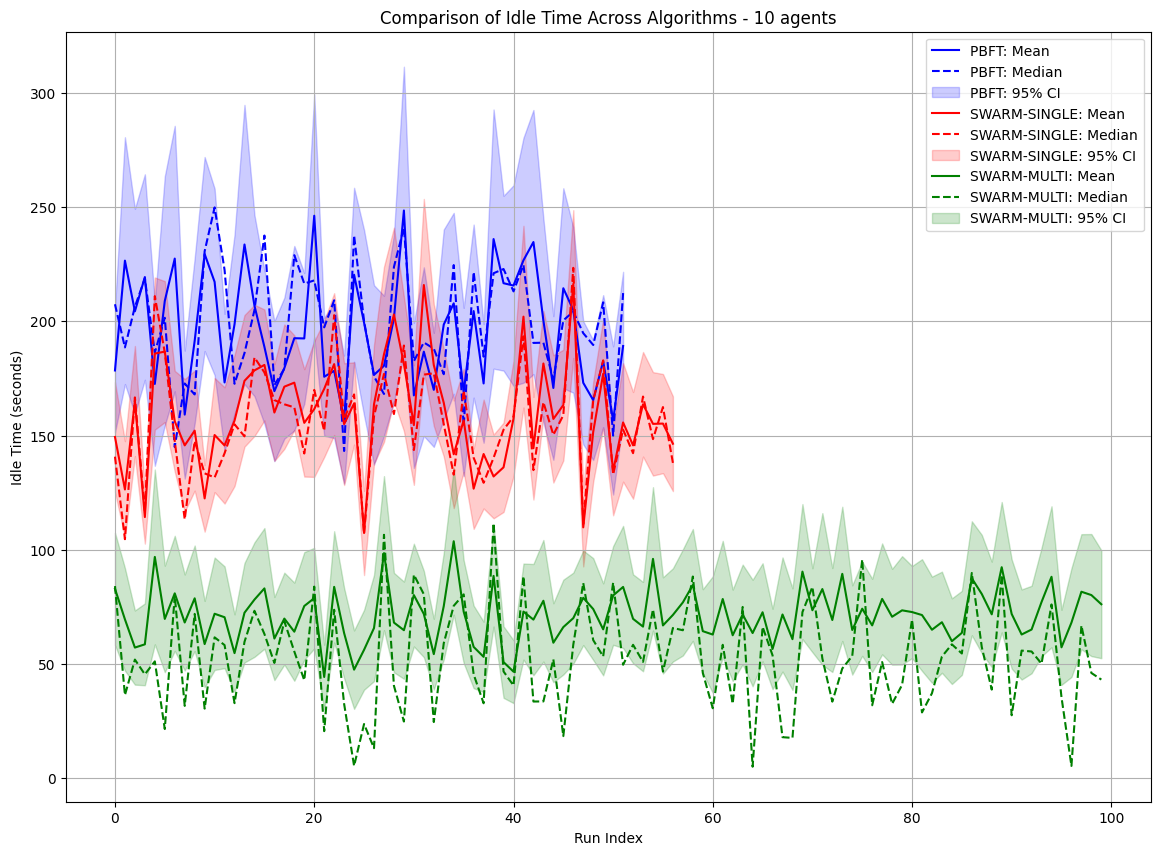
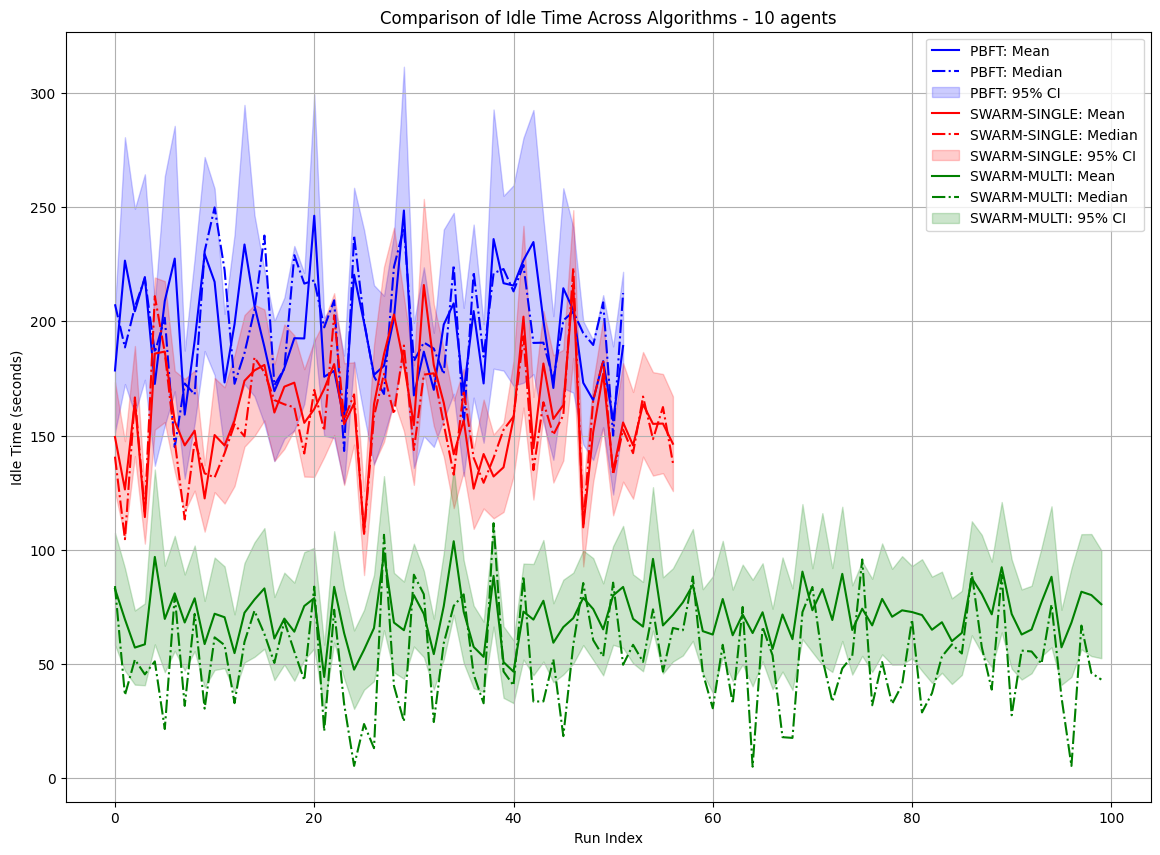
CI plots

diff --git a/runs/comparison.py b/runs/comparison.py
@@ -99,7 +99,7 @@ def plot_means_median_line_idle(data_list: List[Dict[str, Any]], number_of_agent
     idx = 0
     for mean_median in data_list:
         plt.plot(mean_median['idle_means'], colors[idx][0], label=f'{mean_median["algo"]}: Mean')
-        plt.plot(mean_median['idle_medians'], f'{colors[idx][0]}-', label=f'{mean_median["algo"]}: Median')
+        plt.plot(mean_median['idle_medians'], f'{colors[idx][0]}.', label=f'{mean_median["algo"]}: Median')
         plt.fill_between(range(len(mean_median['idle_means'])), mean_median['idle_ci_lower'], mean_median['idle_ci_upper'],
                          color=colors[idx][1], alpha=0.2,
                          label=f'{mean_median["algo"]}: 95% CI')
@@ -121,7 +121,7 @@ def plot_means_median_line(data_list: List[Dict[str, Any]], number_of_agents: in
     idx = 0
     for mean_median in data_list:
         plt.plot(mean_median['means'], colors[idx][0], label=f'{mean_median["algo"]}: Mean')
-        plt.plot(mean_median['medians'], f'{colors[idx][0]}-', label=f'{mean_median["algo"]}: Median')
+        plt.plot(mean_median['medians'], f'{colors[idx][0]}.', label=f'{mean_median["algo"]}: Median')
         plt.fill_between(range(len(mean_median['means'])), mean_median['ci_lower'], mean_median['ci_upper'],
                          color=colors[idx][1], alpha=0.2,
                          label=f'{mean_median["algo"]}: 95% CI')
